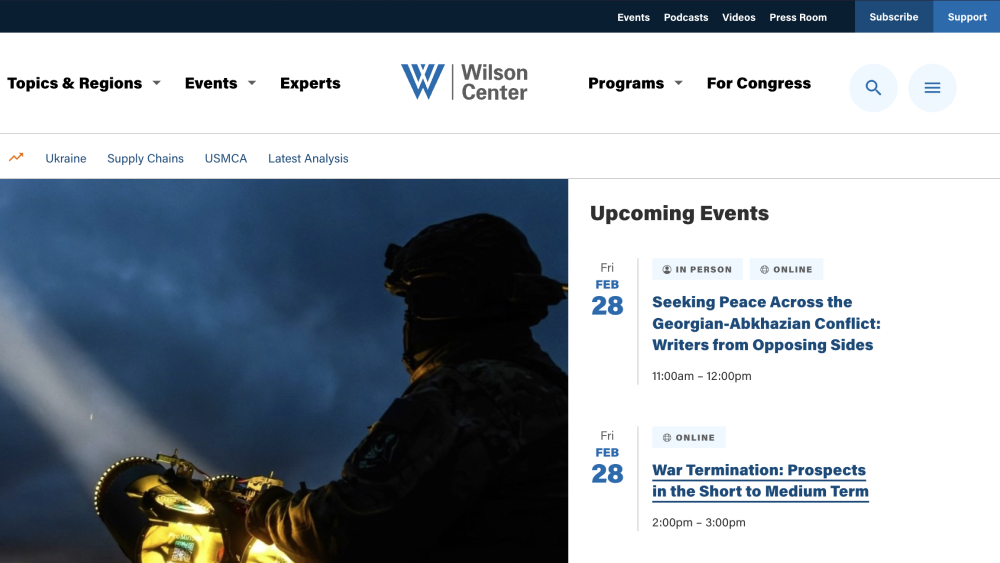
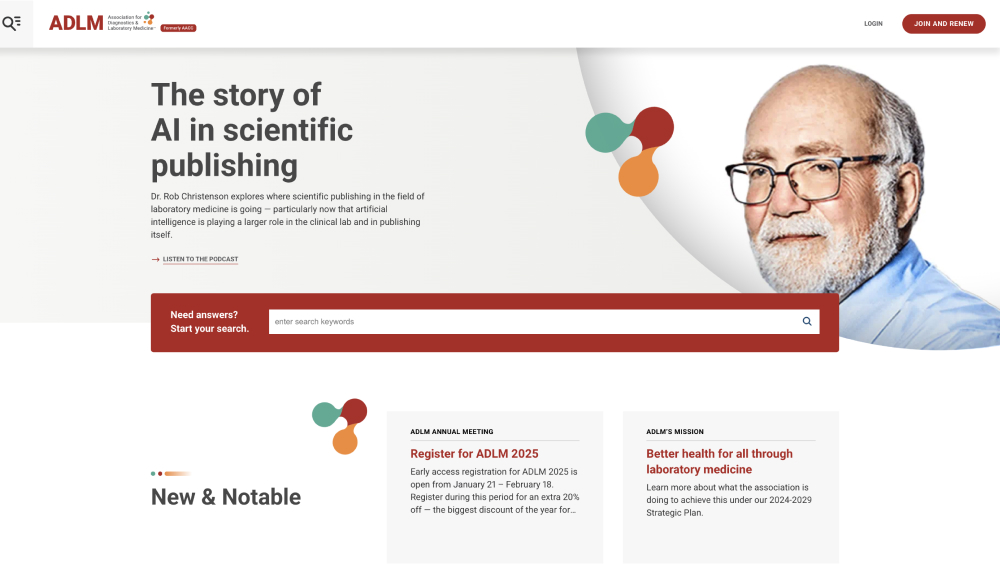
Added new feature card

diff --git a/src/Components/CardFeatured/CardFeatured.jsx b/src/Components/CardFeatured/CardFeatured.jsx
@@ -3,26 +3,34 @@ import "./CardFeatured.scss";
 import img1 from "../../assets/images/img-1.jpg";
 import img2 from "../../assets/images/img-2.jpg";
 import img3 from "../../assets/images/img-3.jpg";
+import img4 from "../../assets/images/img-4.jpg";
 
 const data = [
   {
     id: 1,
-    title: "ACOFP",
+    title: "APHL",
     imageUrl: img1,
-    link: "https://acofp.org/family-physicians-do-more",
+    link: "https://aphl.org/",
     items: ["SCSS", "Astro", "JS"],
   },
   {
     id: 2,
-    title: "ADML",
+    title: "ACOFP",
     imageUrl: img2,
+    link: "https://acofp.org/family-physicians-do-more",
+    items: ["SCSS", "Astro", "JS"],
+  },
+  {
+    id: 3,
+    title: "ADML",
+    imageUrl: img3,
     link: "https://myadlm.org/",
     items: ["SCSS", "HTML", "jQuery", "Twig"],
   },
   {
-    id: 3,
+    id: 4,
     title: "Wilson Center",
-    imageUrl: img3,
+    imageUrl: img4,
     link: "https://www.wilsoncenter.org/",
     items: ["SCSS", "HTML", "jQuery", "Twig"],
   }
